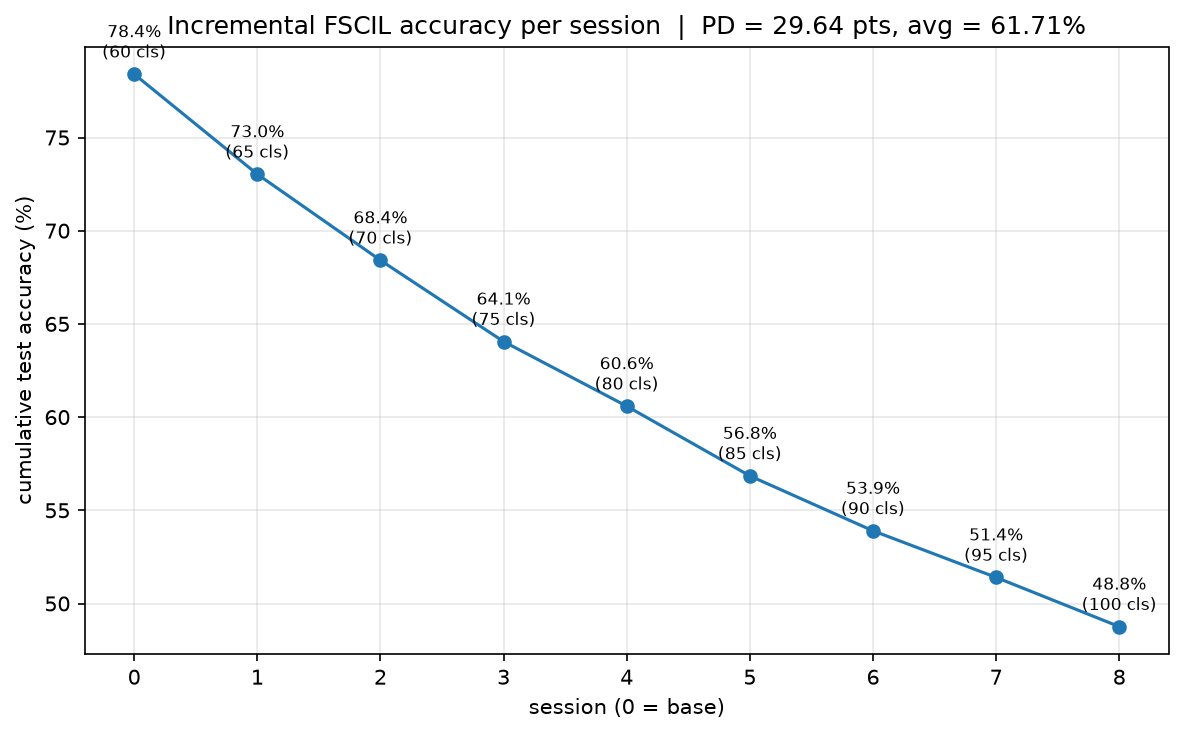
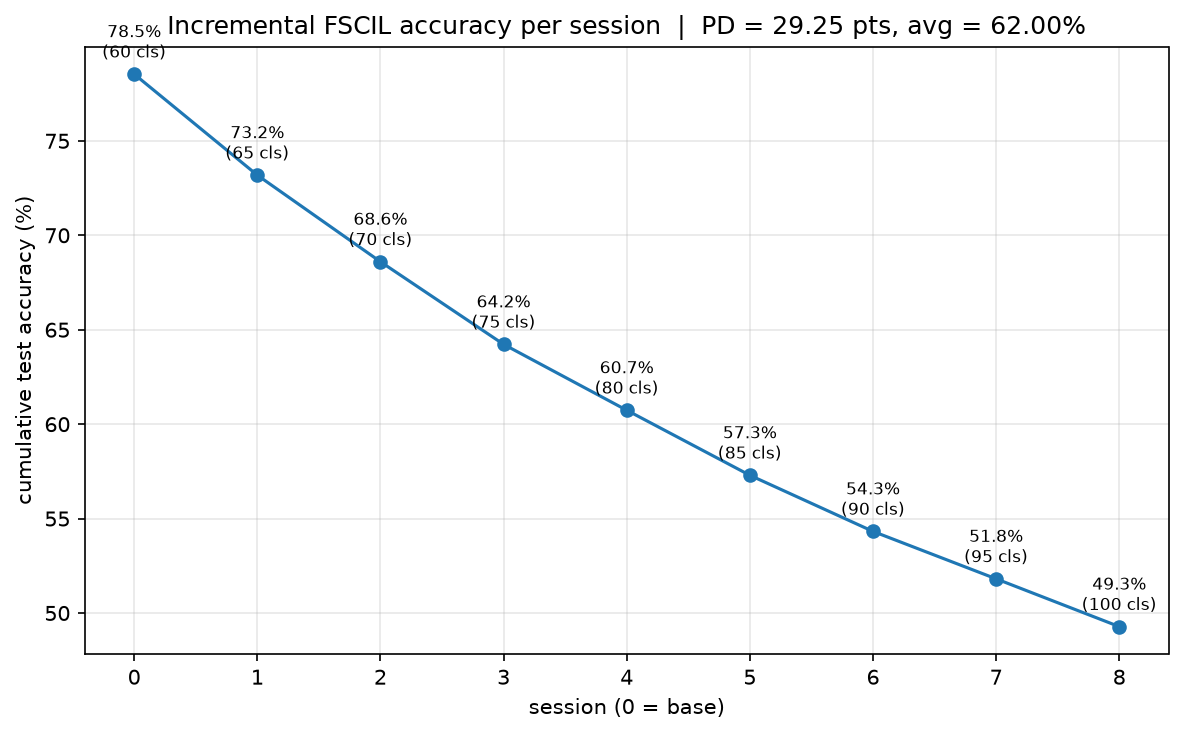
CIFAR-100 ablate-supcon (rescored) result: base 78.53%, final 49.28%, PD 29.25, avg 62.00%, A_B 69.97%, A_N 18.25%, HM 28.95%
Auto-committed by the training orchestrator.

Claude-Session: https://claude.ai/code/session_01GDGJYxSeGz7wbgpdPrPcEm

diff --git a/results/REPORT.md b/results/REPORT.md
@@ -1,6 +1,6 @@
 # STAG-STI — Results & Analysis
 
-_Generated 2026-09-08 18:50 • auto-updated as runs complete._
+_Generated 2026-09-08 18:51 • auto-updated as runs complete._
 
 ## In-domain results
 
@@ -30,7 +30,7 @@ _CUB-200 baselines from the Review-1 deck; CIFAR-100 / miniImageNet baselines ar
 | Configuration | A₀ | A_T | PD ↓ | Avg |
 |---|---|---|---|---|
 | Full model | 78.22 | 49.53 | 28.69 | 62.08 |
-| − supcon | 78.40 | 48.76 | 29.64 | 61.71 |
+| − supcon | 78.53 | 49.28 | 29.25 | 62.00 |
 | − topology | 78.15 | 50.03 | 28.12 | 61.93 |
 | − agedecay | 78.60 | 49.51 | 29.09 | 62.14 |
 
